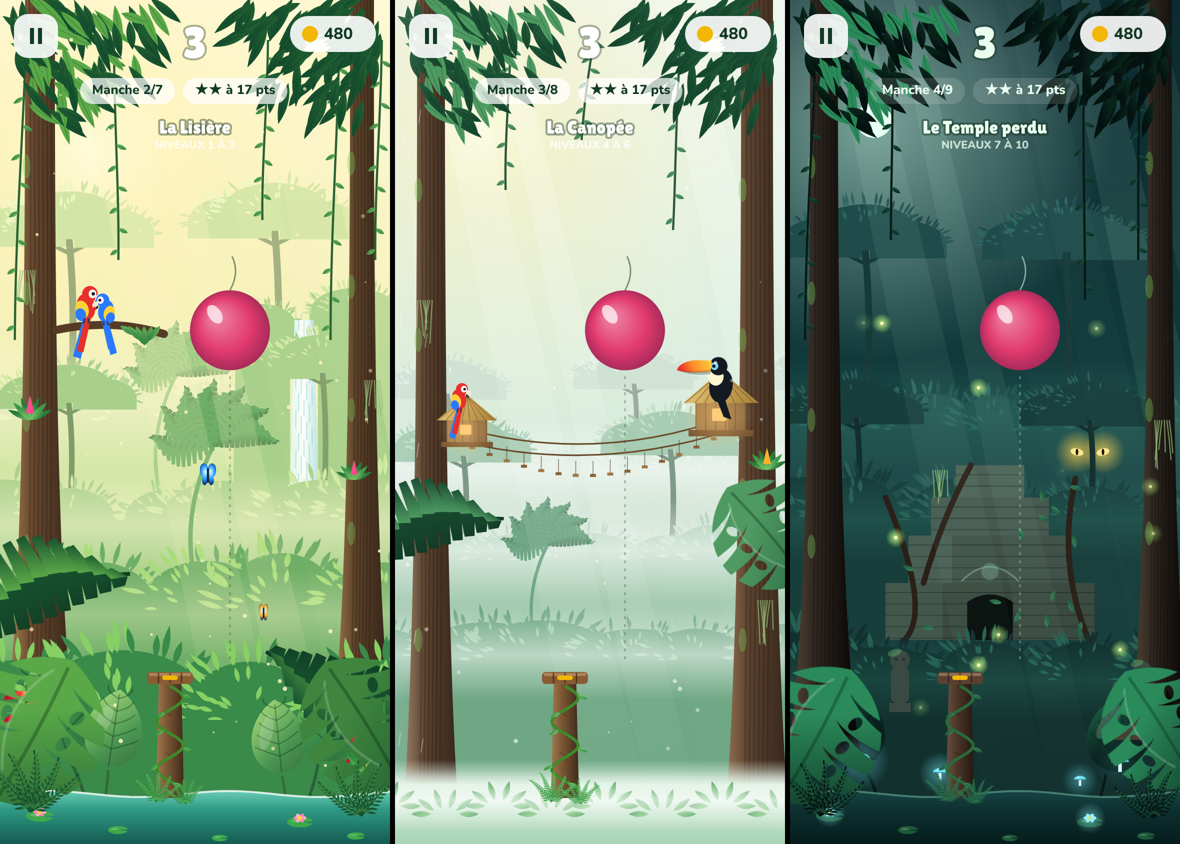
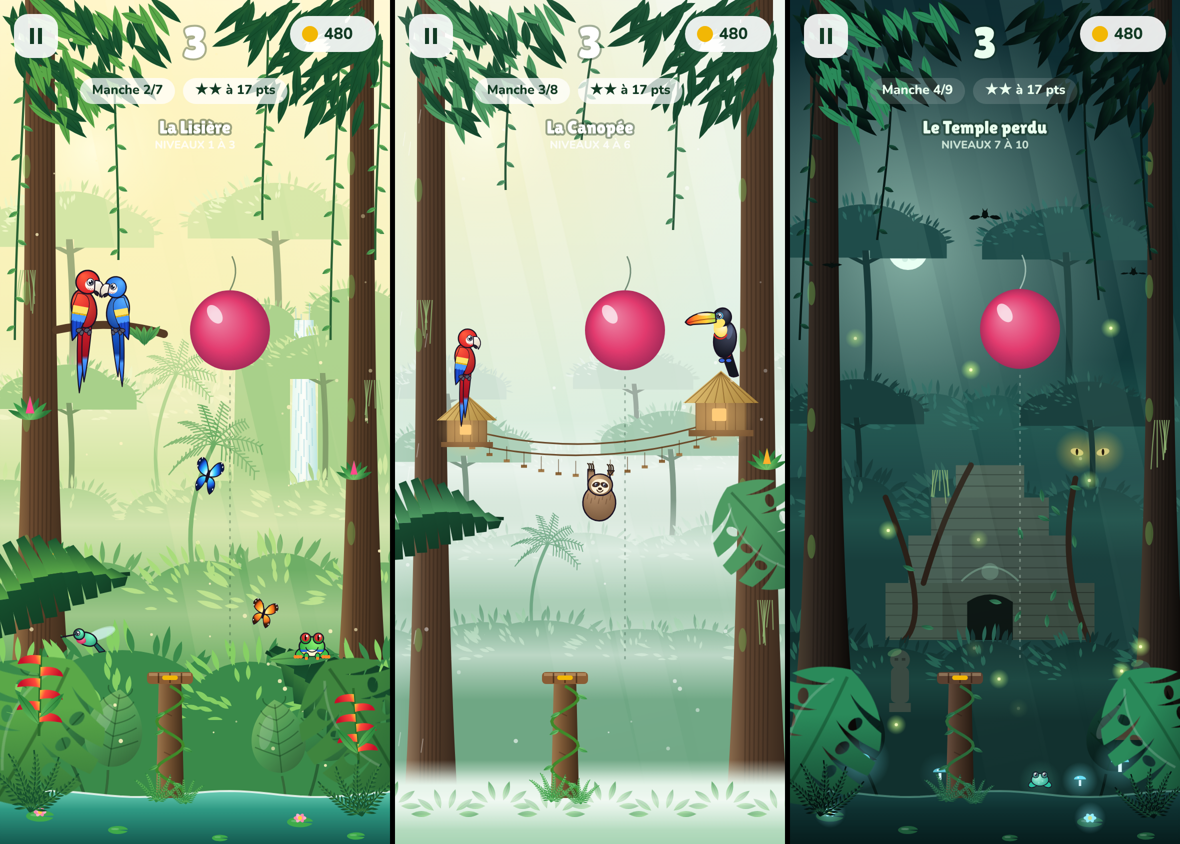
Monde 6 : animaux refaits (aras, toucan, colibri, rainette, paresseux, morphos, chauves-souris, grenouille luminescente) et palmiers
Claude-Session: https://claude.ai/code/session_01NEC92qwxswvqqiEaD4C6hh

diff --git a/design/brouillons/2026-11-19-jungle-maquettes.html b/design/brouillons/2026-11-19-jungle-maquettes.html
@@ -161,7 +161,12 @@ function emergent(x, base, hgt, cw, col, hi, tr, seed) { const top = base - hgt;
   bush(x - cw * .45, top + cw * .08, cw * .42, cw * .26, col, hi, seed); bush(x + cw * .45, top + cw * .1, cw * .4, cw * .24, col, hi, seed + 5); bush(x, top - cw * .02, cw * .55, cw * .3, col, hi, seed + 9); }
 /* silhouette de palmier (une seule couleur, pour les plans lointains) */
 function palmSil(x, base, hgt, s, col, t) { c.save(); c.strokeStyle = col; c.lineWidth = 4 * s; c.lineCap = 'round'; c.beginPath(); c.moveTo(x, base); c.quadraticCurveTo(x - hgt * .2, base - hgt * .5, x + hgt * .05, base - hgt); c.stroke();
-  c.translate(x + hgt * .05, base - hgt); for (let f = 0; f < 7; f++) banana(0, 0, .42 * s, -Math.PI * .95 + f * .5 + Math.sin(t * .01 + f) * .03, col, col); c.restore(); }
+  c.translate(x + hgt * .05, base - hgt); c.lineWidth = 1.2 * s;
+  for (let f = 0; f < 8; f++) { const a = -Math.PI + f * (Math.PI / 7) + Math.sin(t * .01 + f) * .04, L = 46 * s * (f === 0 || f === 7 ? .8 : 1), dr = 18 * s;
+    const P = u => { const d = L * u; return [Math.cos(a) * d, Math.sin(a) * d + dr * u * u * (Math.abs(Math.cos(a)) + .3)]; };
+    c.beginPath(); for (let i = 0; i <= 10; i++) { const [px, py] = P(i / 10); i ? c.lineTo(px, py) : c.moveTo(px, py); } c.stroke();
+    for (let i = 2; i <= 10; i++) { const u = i / 10, [px, py] = P(u), l = 10 * s * (1 - u * .5); for (const sd of [-1, 1]) { c.beginPath(); c.moveTo(px, py); c.lineTo(px + Math.cos(a + sd * 1.1 + .5) * l, py + Math.sin(a + sd * 1.1 + .5) * l + l * .5); c.stroke(); } } }
+  c.restore(); }
 /* plan de forêt : une rangée de masses feuillues, d'émergents et de palmiers, posée sur une bande pleine */
 function forestPlane(y, k, seed, t, opt = {}) { const col = ZN.P[k], hi = ZN.HI[k];
   const n = opt.n || 6; for (let i = 0; i < n; i++) { const x = (i + .5) / n * (W + 80) - 40 + (h1(seed + i) - .5) * 30;
@@ -176,11 +181,140 @@ function cornerLeaves(t, col, hi) { for (const [x0, sd] of [[-10, 1], [W + 10, -
 /* oreille d'éléphant (grande feuille en cœur, saturée) */
 function elephantEar(x, y, s, a, col, hi) { c.save(); c.translate(x, y); c.rotate(a); c.scale(s, s);
   c.strokeStyle = mix(col, '#000000', .3); c.lineWidth = 3; c.beginPath(); c.moveTo(0, 0); c.quadraticCurveTo(4, 30, -2, 70); c.stroke();
-  const g = c.createLinearGradient(-40, -80, 30, 0); g.addColorStop(0, hi); g.addColorStop(.6, col); g.addColorStop(1, mix(col, '#000000', .25)); c.fillStyle = g;
+  const g = c.createLinearGradient(-40, -80, 30, 0); g.addColorStop(0, mix(col, hi, .55)); g.addColorStop(.5, col); g.addColorStop(1, mix(col, '#000000', .35)); c.fillStyle = g;
   c.beginPath(); c.moveTo(0, -4); c.bezierCurveTo(-44, -8, -46, -70, 0, -96); c.bezierCurveTo(46, -70, 44, -8, 0, -4); c.fill();
   c.strokeStyle = 'rgba(0,30,10,0.3)'; c.lineWidth = 1.6; c.beginPath(); c.moveTo(0, -4); c.lineTo(0, -90); c.stroke();
   for (let k = 1; k < 6; k++) { const yy = -10 - k * 15; for (const sd of [-1, 1]) { c.beginPath(); c.moveTo(0, yy); c.quadraticCurveTo(sd * 16, yy - 6, sd * (34 - k * 4), yy - 14); c.stroke(); } }
   c.fillStyle = 'rgba(255,255,255,0.16)'; c.beginPath(); c.ellipse(-14, -56, 8, 22, .3, 0, TAU); c.fill(); c.restore(); }
+/* ===== animaux v2 : contour doux, grands yeux, formes rondes, lumière en haut à gauche ===== */
+const AOUT = '#1a1224';
+const aln = (w) => { c.strokeStyle = AOUT; c.lineWidth = w; c.lineJoin = 'round'; c.lineCap = 'round'; c.stroke(); };
+const rg = (x, y, r, a, b) => { const g = c.createRadialGradient(x - r * .45, y - r * .5, r * .1, x, y, r * 1.1); g.addColorStop(0, a); g.addColorStop(1, b); return g; };
+/* oeil mignon : grand, reflet ; k = ouverture (1 ouvert, 0 fermé) */
+function cuteEye(x, y, r, k, iris = '#141a2c', ring) { if (ring) { c.fillStyle = ring; c.beginPath(); c.ellipse(x, y, r * 1.45, r * 1.35, 0, 0, TAU); c.fill(); }
+  if (k < .2) { c.strokeStyle = AOUT; c.lineWidth = Math.max(1, r * .35); c.beginPath(); c.arc(x, y - r * .2, r * .8, .3, Math.PI - .3); c.stroke(); return; }
+  c.fillStyle = '#ffffff'; c.beginPath(); c.ellipse(x, y, r, r * 1.08 * k, 0, 0, TAU); c.fill(); c.strokeStyle = AOUT; c.lineWidth = Math.max(.8, r * .18); c.stroke();
+  c.fillStyle = iris; c.beginPath(); c.ellipse(x + r * .15, y + r * .08, r * .66, r * .74 * k, 0, 0, TAU); c.fill();
+  c.fillStyle = '#ffffff'; c.beginPath(); c.arc(x - r * .1, y - r * .28, r * .3, 0, TAU); c.fill(); c.beginPath(); c.arc(x + r * .4, y + r * .35, r * .13, 0, TAU); c.fill(); }
+const blinkK = (t, ph, per = 200) => { const q = (t + ph * 37) % per; return q < 4 ? 1 - q / 4 : q < 8 ? (q - 4) / 4 : 1; };
+
+/* ---- l'ara (perché sur une branche ; origine = pattes) ---- */
+function macaw2(x, y, s, t, o = {}) {
+  const col = o.col || 'red', R = col === 'red' ? ['#ff5a3c', '#d8202a', '#9a1020'] : ['#5ab0ff', '#1e6ae0', '#0e3a9a'], Y = ['#ffe46a', '#f2b705'], B = ['#4a9aff', '#1a4ad0'];
+  const k = blinkK(t, o.ph || 0), sq = ((t + (o.ph || 0) * 90) % 420) > 380 ? 1 : 0, tilt = Math.sin(t * .03 + (o.ph || 0)) * .12 + (sq ? -.15 : 0);
+  c.save(); c.translate(x, y); c.scale(s * (o.dir || 1), s);
+  /* queue : deux longues plumes qui pendent sous la branche */
+  for (const [dx, l, w] of [[-2, 78, 7], [4, 64, 6]]) { c.beginPath(); c.moveTo(dx - 5, -12); c.quadraticCurveTo(dx - 9, l * .5, dx - 4, l); c.quadraticCurveTo(dx + 2, l * .55, dx + w, -10); c.closePath();
+    const g = c.createLinearGradient(0, -10, 0, l); g.addColorStop(0, R[1]); g.addColorStop(.55, R[2]); g.addColorStop(.62, B[0]); g.addColorStop(1, B[1]); c.fillStyle = g; c.fill(); aln(1.4); }
+  /* corps */ c.beginPath(); c.ellipse(0, -30, 16, 25, -.18, 0, TAU); c.fillStyle = rg(0, -30, 25, R[0], R[2]); c.fill(); aln(1.8);
+  /* aile repliée sur le dos : rouge, bande jaune, rémiges bleues (le ventre reste visible) */ c.save(); c.translate(-4, -38); c.rotate(.18);
+  const wp = () => { c.beginPath(); c.moveTo(-6, -10); c.quadraticCurveTo(10, -14, 11, 4); c.quadraticCurveTo(10, 32, -2, 50); c.quadraticCurveTo(-9, 30, -9, 6); c.closePath(); };
+  wp(); c.fillStyle = B[1]; c.fill(); aln(1.6);
+  c.save(); wp(); c.clip();
+  c.fillStyle = rg(0, 0, 18, R[0], R[1]); c.fillRect(-12, -14, 30, 20); c.fillStyle = Y[0]; c.fillRect(-12, 5, 30, 9);
+  c.fillStyle = Y[1]; for (let i = 0; i < 4; i++) { c.beginPath(); c.arc(-8 + i * 6, 14, 3.2, 0, Math.PI); c.fill(); }
+  c.fillStyle = B[0]; c.fillRect(-12, 16, 30, 9); c.strokeStyle = 'rgba(10,30,90,0.5)'; c.lineWidth = 1; for (let i = 0; i < 4; i++) { c.beginPath(); c.moveTo(-6 + i * 5, 24); c.lineTo(-2 + i * 4, 50); c.stroke(); }
+  c.restore(); c.restore();
+  /* pattes grises qui serrent la branche */ c.fillStyle = '#5a5a6a'; for (const dx of [-6, 4]) { c.beginPath(); c.ellipse(dx, -2, 4, 3, 0, 0, TAU); c.fill(); aln(1); c.beginPath(); c.ellipse(dx + 3, 1, 2.4, 3.4, .4, 0, TAU); c.fill(); aln(.9); }
+  /* tête */ c.save(); c.translate(4, -58); c.rotate(tilt);
+  c.beginPath(); c.arc(0, -6, 15, 0, TAU); c.fillStyle = rg(0, -6, 15, R[0], R[1]); c.fill(); aln(1.8);
+  /* joue nue blanche, avec ses petites lignes de plumes */ c.fillStyle = '#fff8f0'; c.beginPath(); c.ellipse(5, -3, 8, 7, .15, 0, TAU); c.fill();
+  c.strokeStyle = 'rgba(160,40,40,0.55)'; c.lineWidth = .9; for (let i = 0; i < 3; i++) { c.beginPath(); c.moveTo(1 + i * 3, 1.5); c.lineTo(4 + i * 3, 3.5); c.stroke(); }
+  cuteEye(3.5, -6.5, 4.4, k, '#141a2c', null);
+  /* gros bec crochu devant la joue : haut ivoire, bas noir (s'ouvre quand il crie) */ const op = sq ? .6 : 0;
+  c.save(); c.translate(10, 4); c.rotate(op * .45); c.beginPath(); c.moveTo(0, -1); c.quadraticCurveTo(6, 1, 5, 6); c.quadraticCurveTo(1, 5, -1, 1); c.closePath(); c.fillStyle = '#26262e'; c.fill(); aln(1.2); c.restore();
+  c.beginPath(); c.moveTo(9, -9); c.bezierCurveTo(19, -12, 25, 0, 18, 11); c.quadraticCurveTo(16, 4, 10, 4); c.closePath(); const bg = c.createLinearGradient(9, -10, 22, 10); bg.addColorStop(0, '#fffaf0'); bg.addColorStop(.7, '#e6dcc8'); bg.addColorStop(1, '#3a3a40'); c.fillStyle = bg; c.fill(); aln(1.4);
+  c.fillStyle = 'rgba(255,255,255,0.75)'; c.beginPath(); c.ellipse(14, -7, 3, 1.3, -.2, 0, TAU); c.fill();
+  c.restore(); c.restore(); }
+
+/* ---- le toucan (origine = pattes) ---- */
+function toucan2(x, y, s, t, o = {}) { const k = blinkK(t, o.ph || 2), tilt = Math.sin(t * .025) * .1;
+  c.save(); c.translate(x, y); c.scale(s * (o.dir || 1), s);
+  /* queue */ c.beginPath(); c.moveTo(-8, -14); c.lineTo(-18, 18); c.quadraticCurveTo(-11, 22, -6, 18); c.lineTo(4, -10); c.closePath(); c.fillStyle = '#141820'; c.fill(); aln(1.4);
+  c.fillStyle = '#e8302a'; c.beginPath(); c.ellipse(-2, -10, 6, 4, 0, 0, TAU); c.fill();
+  /* corps noir lustré */ c.beginPath(); c.ellipse(0, -30, 15, 24, -.12, 0, TAU); c.fillStyle = rg(0, -30, 24, '#4a5068', '#0c0e16'); c.fill(); aln(1.8);
+  c.fillStyle = 'rgba(160,190,255,0.25)'; c.beginPath(); c.ellipse(-6, -40, 4, 10, -.2, 0, TAU); c.fill();
+  /* bavette jaune pâle */ c.beginPath(); c.ellipse(6, -44, 9, 11, .2, 0, TAU); c.fillStyle = rg(6, -44, 11, '#fffbe0', '#ffd84a'); c.fill();
+  c.strokeStyle = '#e8302a'; c.lineWidth = 2; c.beginPath(); c.arc(6, -40, 9, .4, Math.PI - .4); c.stroke();
+  c.fillStyle = '#3a6ae0'; for (const dx of [-5, 4]) { c.beginPath(); c.ellipse(dx, -2, 4, 2.6, 0, 0, TAU); c.fill(); aln(1); }
+  /* tête */ c.save(); c.translate(3, -56); c.rotate(tilt); c.beginPath(); c.arc(0, -4, 12, 0, TAU); c.fillStyle = rg(0, -4, 12, '#4a5068', '#0c0e16'); c.fill(); aln(1.6);
+  c.fillStyle = '#ffe46a'; c.beginPath(); c.ellipse(5, 4, 8, 6, .3, 0, TAU); c.fill();
+  cuteEye(4, -6, 3.6, k, '#141a2c', '#5ad0ff');
+  /* le grand bec : vert-jaune → orange → rouge, pointe noire, liseré clair */
+  c.beginPath(); c.moveTo(9, -10); c.bezierCurveTo(26, -16, 44, -10, 50, -2); c.quadraticCurveTo(46, 4, 40, 2); c.bezierCurveTo(30, 2, 18, 4, 9, 2); c.closePath();
+  const g = c.createLinearGradient(9, 0, 50, 0); g.addColorStop(0, '#a8e05a'); g.addColorStop(.3, '#ffd23a'); g.addColorStop(.7, '#ff8a2a'); g.addColorStop(.92, '#e8302a'); g.addColorStop(1, '#2a1a1a'); c.fillStyle = g; c.fill(); aln(1.6);
+  c.strokeStyle = 'rgba(120,20,10,0.55)'; c.lineWidth = 1.2; c.beginPath(); c.moveTo(10, -3); c.quadraticCurveTo(30, -4, 46, -1); c.stroke();
+  c.fillStyle = 'rgba(255,255,255,0.6)'; c.beginPath(); c.ellipse(24, -10, 9, 1.8, -.12, 0, TAU); c.fill();
+  c.restore(); c.restore(); }
+
+/* ---- colibri qui butine (en vol stationnaire) ---- */
+function hummingbird(x, y, s, t, o = {}) { const hov = Math.sin(t * .2) * 1.5, wing = Math.sin(t * 2.2);
+  c.save(); c.translate(x, y + hov); c.scale(s * (o.dir || 1), s);
+  /* ailes floues */ for (const k of [-1, 1]) { c.save(); c.rotate(-1.2 + wing * .5 * k); c.fillStyle = 'rgba(220,250,255,0.45)'; c.beginPath(); c.ellipse(0, -14, 5, 16, 0, 0, TAU); c.fill(); c.restore(); }
+  /* queue */ c.beginPath(); c.moveTo(-8, 2); c.lineTo(-18, 12); c.lineTo(-12, 13); c.lineTo(-6, 5); c.closePath(); c.fillStyle = '#1a6a5a'; c.fill(); aln(1);
+  /* corps vert irisé, gorge rubis */ c.beginPath(); c.ellipse(0, 0, 10, 6.5, -.35, 0, TAU); c.fillStyle = rg(0, 0, 10, '#7affc8', '#1a8a6a'); c.fill(); aln(1.3);
+  c.beginPath(); c.ellipse(6, 1, 5, 3.6, -.2, 0, TAU); c.fillStyle = rg(6, 1, 5, '#ff8aa8', '#c8104a'); c.fill();
+  c.beginPath(); c.arc(8, -5, 5.4, 0, TAU); c.fillStyle = rg(8, -5, 5.4, '#7affc8', '#1a8a6a'); c.fill(); aln(1.2);
+  cuteEye(9.5, -6, 2.2, blinkK(t, 5), '#141a2c');
+  c.strokeStyle = '#1a1224'; c.lineWidth = 1.4; c.beginPath(); c.moveTo(12.5, -4.5); c.lineTo(26, -2); c.stroke();
+  c.restore(); }
+
+/* ---- la rainette aux yeux rouges (sur une feuille) ---- */
+function treeFrog(x, y, s, t, o = {}) { const k = blinkK(t, 3, 260), puff = 1 + Math.max(0, Math.sin(t * .09)) * .25;
+  c.save(); c.translate(x, y); c.scale(s * (o.dir || 1), s);
+  /* pattes arrière repliées, orteils orange */ for (const dx of [-12, 12]) { c.beginPath(); c.ellipse(dx, -4, 9, 6, dx < 0 ? -.4 : .4, 0, TAU); c.fillStyle = '#3ac04a'; c.fill(); aln(1.3); c.fillStyle = '#ff8a2a'; for (let i = 0; i < 3; i++) { c.beginPath(); c.arc(dx * 1.45 + (i - 1) * 3.4, 1, 2.2, 0, TAU); c.fill(); } }
+  /* corps */ c.beginPath(); c.ellipse(0, -12, 16, 12, 0, 0, TAU); c.fillStyle = rg(0, -12, 16, '#9aff7a', '#22a03a'); c.fill(); aln(1.6);
+  /* flanc bleu et jaune */ c.save(); c.beginPath(); c.ellipse(0, -12, 16, 12, 0, 0, TAU); c.clip(); c.fillStyle = '#2a6ae0'; c.fillRect(-16, -8, 32, 4); c.fillStyle = '#ffe46a'; c.fillRect(-16, -5, 32, 3); c.restore();
+  /* gorge qui se gonfle */ c.fillStyle = '#fff6d0'; c.beginPath(); c.ellipse(0, -4, 7 * puff, 4 * puff, 0, 0, TAU); c.fill();
+  /* pattes avant */ for (const dx of [-7, 7]) { c.beginPath(); c.ellipse(dx, 0, 3, 4, 0, 0, TAU); c.fillStyle = '#3ac04a'; c.fill(); aln(1); c.fillStyle = '#ff8a2a'; c.beginPath(); c.arc(dx, 3, 2, 0, TAU); c.fill(); }
+  /* les grands yeux rouges, pupille verticale */ for (const dx of [-8, 8]) { c.beginPath(); c.arc(dx, -22, 6.5, 0, TAU); c.fillStyle = '#22a03a'; c.fill(); aln(1.3);
+    if (k < .2) { c.strokeStyle = AOUT; c.lineWidth = 1.6; c.beginPath(); c.arc(dx, -23, 4, .3, Math.PI - .3); c.stroke(); continue; }
+    c.beginPath(); c.ellipse(dx, -23, 5, 5 * k, 0, 0, TAU); c.fillStyle = rg(dx, -23, 5, '#ff7a6a', '#c8101a'); c.fill();
+    c.fillStyle = '#140a0a'; c.beginPath(); c.ellipse(dx, -23, 1.2, 3.6 * k, 0, 0, TAU); c.fill(); c.fillStyle = '#fff'; c.beginPath(); c.arc(dx - 1.6, -25, 1.3, 0, TAU); c.fill(); }
+  /* sourire */ c.strokeStyle = AOUT; c.lineWidth = 1.1; c.beginPath(); c.arc(0, -13, 8, .3, Math.PI - .3); c.stroke();
+  c.restore(); }
+
+/* ---- le paresseux (suspendu sous une branche ; origine = mains sur la branche) ---- */
+function sloth(x, y, s, t, o = {}) { const sw = Math.sin(t * .012) * .08, k = blinkK(t, 7, 320) * .55;
+  c.save(); c.translate(x, y); c.scale(s, s); c.rotate(sw);
+  const fur = rg(0, 30, 30, '#c8a07a', '#7a5a3e');
+  /* bras levés qui tiennent la branche, griffes */ for (const dx of [-12, 12]) { c.beginPath(); c.moveTo(dx - 4, 0); c.quadraticCurveTo(dx * 1.3, 14, dx * 1.2, 26); c.lineTo(dx * .4, 26); c.quadraticCurveTo(dx * .6, 10, dx + 4, 0); c.closePath(); c.fillStyle = fur; c.fill(); aln(1.3);
+    c.strokeStyle = '#3a2a1e'; c.lineWidth = 1.6; for (let i = -1; i <= 1; i++) { c.beginPath(); c.moveTo(dx + i * 2.6, 2); c.quadraticCurveTo(dx + i * 2.6 + 1, -6, dx + i * 2.6 - 2, -7); c.stroke(); } }
+  /* corps rond et poilu */ c.beginPath(); c.ellipse(0, 40, 20, 22, 0, 0, TAU); c.fillStyle = fur; c.fill(); aln(1.6);
+  c.strokeStyle = 'rgba(80,50,30,0.4)'; c.lineWidth = 1; for (let i = 0; i < 7; i++) { c.beginPath(); c.moveTo(-14 + i * 4.6, 30 + (i % 2) * 5); c.lineTo(-15 + i * 4.6, 36 + (i % 2) * 5); c.stroke(); }
+  /* tête : masque crème, bandes sombres autour des yeux, sourire */ c.beginPath(); c.ellipse(0, 18, 15, 13, 0, 0, TAU); c.fillStyle = rg(0, 18, 15, '#d8b48a', '#8a6a4a'); c.fill(); aln(1.5);
+  c.fillStyle = '#fff2d8'; c.beginPath(); c.ellipse(0, 20, 11, 9, 0, 0, TAU); c.fill();
+  for (const dx of [-5, 5]) { c.fillStyle = '#4a3020'; c.beginPath(); c.ellipse(dx, 18, 5, 3, dx < 0 ? -.35 : .35, 0, TAU); c.fill(); cuteEye(dx, 18, 2.1, k + .45, '#141a2c'); }
+  c.fillStyle = '#3a2418'; c.beginPath(); c.ellipse(0, 23, 2.4, 1.6, 0, 0, TAU); c.fill(); c.strokeStyle = '#3a2418'; c.lineWidth = 1.2; c.beginPath(); c.arc(0, 23, 4, .4, Math.PI - .4); c.stroke();
+  c.restore(); }
+
+/* ---- morpho bleu (vu de dessus, ailes qui battent) ---- */
+function morpho(x, y, s, t, o = {}) { const f = .3 + .7 * Math.abs(Math.sin(t * .32 + (o.ph || 0))), blue = o.col !== 'orange';
+  c.save(); c.translate(x, y); c.rotate(o.rot || 0); c.scale(s, s);
+  for (const sd of [-1, 1]) { c.save(); c.scale(sd * f, 1);
+    const g = c.createRadialGradient(4, -2, 1, 6, -2, 14); if (blue) { g.addColorStop(0, '#d8fbff'); g.addColorStop(.35, '#3ad0ff'); g.addColorStop(.75, '#1a5ae0'); g.addColorStop(1, '#0a1a4a'); } else { g.addColorStop(0, '#fff2a0'); g.addColorStop(.4, '#ffb02a'); g.addColorStop(.8, '#e8601e'); g.addColorStop(1, '#3a1a0a'); }
+    c.beginPath(); c.moveTo(1, -1); c.bezierCurveTo(4, -14, 20, -19, 23, -9); c.quadraticCurveTo(20, 0, 1, 1); c.closePath(); c.fillStyle = g; c.fill(); aln(1.1);
+    c.beginPath(); c.moveTo(1, 1); c.bezierCurveTo(15, 0, 21, 10, 11, 16); c.quadraticCurveTo(4, 13, 1, 3); c.closePath(); c.fill(); aln(1.1);
+    c.fillStyle = '#ffffff'; for (const [px, py] of [[20, -11], [17, -14], [21, -6], [14, 11]]) { c.beginPath(); c.arc(px, py, .9, 0, TAU); c.fill(); }
+    c.restore(); }
+  c.beginPath(); c.ellipse(0, 1, 1.6, 6, 0, 0, TAU); c.fillStyle = '#1a1224'; c.fill();
+  c.strokeStyle = '#1a1224'; c.lineWidth = .8; c.beginPath(); c.moveTo(-.5, -4); c.quadraticCurveTo(-3, -9, -4, -11); c.moveTo(.5, -4); c.quadraticCurveTo(3, -9, 4, -11); c.stroke();
+  c.restore(); }
+
+/* ---- chauve-souris (silhouette devant la lune) ---- */
+function bat(x, y, s, t, ph) { const f = Math.sin(t * .4 + ph); c.save(); c.translate(x, y); c.scale(s, s); c.fillStyle = '#06100e';
+  c.beginPath(); c.moveTo(0, -2); c.quadraticCurveTo(-8, -10 * f - 2, -16, -4 * f); c.quadraticCurveTo(-12, 0, -10, 1); c.quadraticCurveTo(-6, 0, -4, 3); c.quadraticCurveTo(0, 1, 4, 3); c.quadraticCurveTo(6, 0, 10, 1); c.quadraticCurveTo(12, 0, 16, -4 * f); c.quadraticCurveTo(8, -10 * f - 2, 0, -2); c.fill();
+  c.beginPath(); c.ellipse(0, 0, 3, 4, 0, 0, TAU); c.fill(); c.beginPath(); c.moveTo(-2, -3); c.lineTo(-2.6, -6.5); c.lineTo(-.6, -3.4); c.moveTo(2, -3); c.lineTo(2.6, -6.5); c.lineTo(.6, -3.4); c.fill(); c.restore(); }
+
+/* ---- grenouille luminescente (nuit) ---- */
+function glowFrog(x, y, s, t) { const a = .6 + .4 * Math.sin(t * .05); const g = c.createRadialGradient(x, y - 8 * s, 2, x, y - 8 * s, 34 * s); g.addColorStop(0, `rgba(120,255,220,${(.45 * a).toFixed(3)})`); g.addColorStop(1, 'rgba(120,255,220,0)'); c.fillStyle = g; c.beginPath(); c.arc(x, y - 8 * s, 34 * s, 0, TAU); c.fill();
+  c.save(); c.translate(x, y); c.scale(s, s); const k = blinkK(t, 9, 240);
+  for (const dx of [-11, 11]) { c.beginPath(); c.ellipse(dx, -3, 8, 5, dx < 0 ? -.4 : .4, 0, TAU); c.fillStyle = '#2ac0a0'; c.fill(); aln(1.2); }
+  c.beginPath(); c.ellipse(0, -10, 14, 10, 0, 0, TAU); c.fillStyle = rg(0, -10, 14, '#bfffe8', '#1aa088'); c.fill(); aln(1.4);
+  c.fillStyle = `rgba(200,255,255,${(.8 * a).toFixed(3)})`; for (const [px, py] of [[-6, -12], [4, -8], [8, -14], [-2, -5]]) { c.beginPath(); c.arc(px, py, 1.6, 0, TAU); c.fill(); }
+  for (const dx of [-7, 7]) { c.beginPath(); c.arc(dx, -18, 5, 0, TAU); c.fillStyle = '#2ac0a0'; c.fill(); aln(1.2); cuteEye(dx, -18.5, 3.2, k, '#141a2c'); }
+  c.restore(); }
+
 /* ===== sol : rivière (zones 1 et 3) ou mer de nuages et de feuilles (zone 2) ===== */
 function river(t) { const [a, b, d] = ZN.water; c.fillStyle = lg(FL - 14, H, [[0, a], [.4, b], [1, d]]); c.beginPath(); c.moveTo(0, H); for (let x = 0; x <= W; x += 10) c.lineTo(x, FL - 6 + Math.sin(x * .035 + t * .05) * 3); c.lineTo(W, H); c.fill();
   c.strokeStyle = ZN.night ? 'rgba(160,255,220,0.35)' : 'rgba(255,255,255,0.8)'; c.lineWidth = 2; c.beginPath(); for (let x = 0; x <= W; x += 10) { const y = FL - 6 + Math.sin(x * .035 + t * .05) * 3; x ? c.lineTo(x, y) : c.moveTo(x, y); } c.stroke();
@@ -252,18 +386,20 @@ function zone1(t) {
   /* branche des aras, qui sort du tronc de gauche */
   c.strokeStyle = mix(ZN.trunk, '#000000', .2); c.lineWidth = 8; c.lineCap = 'round'; c.beginPath(); c.moveTo(56, 330); c.quadraticCurveTo(112, 318, 164, 334); c.stroke(); c.lineCap = 'butt';
   for (let i = 0; i < 6; i++) leaf(120 + i * 8, 326, 20, 6, .5 + i * .35, ZN.P[3], ZN.HI[3]);
-  macaw(86, 306, 1.3, t); macaw(106, 312, 1.1, t + 40, '#2a7aff', -1);
+  macaw2(84, 332, .78, t); macaw2(118, 332, .7, t + 40, { col: 'blue', dir: -1, ph: 2 });
   /* lianes qui tombent de la canopée (plan 3) */
   for (const [x, l] of [[22, 300], [120, 220], [262, 180], [334, 300], [376, 220]]) vine(x, 40, l, 10, t, ZN.P[3], ZN.HI[3], 10);
   cornerLeaves(t, ZN.P[4], ZN.HI[4]);
-  butterfly(180 + Math.sin(t * .02) * 30, 480 + Math.cos(t * .03) * 20, 1.2, t); butterfly(250 + Math.cos(t * .017) * 26, 600 + Math.sin(t * .02) * 14, .9, t + 30, '#ffb02a');
+  morpho(180 + Math.sin(t * .02) * 30, 480 + Math.cos(t * .03) * 20, 1.1, t, { rot: Math.sin(t * .02) * .3 }); morpho(250 + Math.cos(t * .017) * 26, 600 + Math.sin(t * .02) * 14, .85, t + 30, { col: 'orange', rot: .3 });
   motes(t, 70, ZN.light, .9);
   river(t);
   /* premier plan sombre, liseré de lumière */
   banana(-40, 640, 1.3, -.3, ZN.P[4], ZN.HI[4]); banana(430, 690, 1.2, Math.PI + .3, ZN.P[4], mix(ZN.P[4], ZN.HI[4], .5));
-  heliconia(26, 726, 1.15, Math.sin(t * .01) * .04); heliconia(364, 744, 1, -.1 + Math.sin(t * .012) * .04);
   monstera(-4, 800, 1.45, .5, ZN.P[4], ZN.HI[4]); monstera(400, 784, 1.3, -.55, ZN.P[4], mix(ZN.P[4], ZN.HI[4], .6));
+  heliconia(40, 690, 1.15, Math.sin(t * .01) * .04); heliconia(356, 724, 1, -.1 + Math.sin(t * .012) * .04);
+  hummingbird(84 + Math.sin(t * .015) * 4, 640, 1, t, { dir: -1 });
   fern(30, 812, 1, ZN.P[4], ZN.HI[4]); fern(362, 816, .9, ZN.P[4], ZN.HI[4], -1);
+  /* la rainette sur sa feuille, au bord droit */ leaf(268, 660, 72, 16, -.08, ZN.P[3], ZN.HI[3]); treeFrog(312, 656, .8, t, { dir: -1 });
 }
 /* ===== zone 2 : la Canopée — on est dans les cimes : mer d'arbres et de brume en dessous ===== */
 function zone2(t) {
@@ -275,7 +411,7 @@ function zone2(t) {
   trunk(36, 28, 0, 900, ZN.trunk, ZN.trunkL, mix(ZN.trunk, '#000000', .45)); trunk(362, 32, 0, 900, ZN.trunk, ZN.trunkL, mix(ZN.trunk, '#000000', .45));
   bromeliad(28, 520, 1.1); bromeliad(372, 470, 1, '#ffb02a'); moss(370, 600, 46, t); moss(30, 300, 44, t);
   bridge(60, 440, 336, 430, 40); hut(326, 430, .9, t); hut(72, 442, .72, t);
-  toucan(326, 385, 1.3, t, -1); macaw(64, 400, 1, t, '#e8302a');
+  toucan2(330, 362, .75, t, { dir: -1 }); macaw2(70, 378, .62, t, { ph: 1 }); sloth(206, 470, .82, t);
   for (const [x, l] of [[110, 160], [200, 110], [290, 200]]) vine(x, 30, l, 12, t, ZN.P[3], ZN.HI[3], 8);
   cornerLeaves(t, ZN.P[4], ZN.HI[4]);
   rainCurtain(t, .35);
@@ -290,7 +426,7 @@ function snakeEyes(x, y, s, t) { const blink = (t % 260) < 8 ? .15 : 1, a = .75 
     if (blink > .5) { c.fillStyle = '#1a0e04'; c.beginPath(); c.ellipse(ex, y, 1.3 * s, 3.2 * s, 0, 0, TAU); c.fill(); } } }
 function zone3(t) {
   c.fillStyle = lg(0, H, ZN.sky); c.fillRect(0, 0, W, H);
-  { const g = c.createRadialGradient(84, 120, 4, 84, 120, 240); g.addColorStop(0, 'rgba(210,255,235,0.55)'); g.addColorStop(1, 'rgba(210,255,235,0)'); c.fillStyle = g; c.fillRect(0, 0, W, H); c.fillStyle = '#eafff4'; c.beginPath(); c.arc(84, 120, 18, 0, TAU); c.fill(); }
+  { const g = c.createRadialGradient(118, 250, 4, 118, 250, 240); g.addColorStop(0, 'rgba(210,255,235,0.55)'); g.addColorStop(1, 'rgba(210,255,235,0)'); c.fillStyle = g; c.fillRect(0, 0, W, H); c.fillStyle = '#eafff4'; c.beginPath(); c.arc(118, 250, 20, 0, TAU); c.fill(); c.fillStyle = 'rgba(160,200,190,0.35)'; for (const [dx, dy, r] of [[-6, -4, 4.5], [5, 5, 5.5], [-3, 9, 3]]) { c.beginPath(); c.arc(118 + dx, 250 + dy, r, 0, TAU); c.fill(); } }
   forestPlane(430, 0, 5, t, { n: 7, emer: 140, cw: 96, bw: 46, bh: 30 }); haze(360, 470, .45);
   snakeEyes(300, 452, 1, t);
   forestPlane(520, 1, 13, t, { n: 6, emer: 110, cw: 80, bw: 52, bh: 34 }); haze(480, 560, .4);
@@ -303,7 +439,9 @@ function zone3(t) {
   statue(110, 712, .9); statue(352, 716, .8);
   for (const [x, l] of [[22, 300], [96, 200], [300, 260], [356, 220]]) vine(x, 40, l, 8, t, ZN.P[3], ZN.HI[3]);
   cornerLeaves(t, ZN.P[4], ZN.HI[4]);
+  for (let i = 0; i < 3; i++) { const q = ((t * .0025 + i * .33) % 1); bat(-30 + q * (W + 60), 236 + Math.sin(q * 9 + i) * 22 + i * 18, 1 - i * .18, t, i); }
   for (const [x, y, s] of [[70, 770, 1], [150, 780, .7], [330, 772, .9], [290, 786, .6]]) mushroom(x, y, s, t);
+  glowFrog(250, 786, .62, t);
   fireflies(t, 26, [0, 300, W, 460]);
   river(t);
   monstera(-10, 800, 1.35, .5, ZN.P[4], ZN.HI[4]); monstera(404, 784, 1.2, -.55, ZN.P[4], ZN.HI[4]); fern(30, 816, .9, ZN.P[4], ZN.HI[4]); fern(364, 818, .8, ZN.P[4], ZN.HI[4], -1);
@@ -321,7 +459,13 @@ function hud() { c.fillStyle = 'rgba(255,255,255,0.9)'; c.beginPath(); c.roundRe
   c.fillStyle = 'rgba(255,255,255,0.9)'; c.beginPath(); c.roundRect(W - 100, 16, 86, 36, 18); c.fill(); c.fillStyle = '#f2b705'; c.beginPath(); c.arc(W - 80, 34, 8, 0, TAU); c.fill(); c.font = '800 16px Nunito'; c.fillStyle = '#123a24'; c.textBaseline = 'middle'; c.fillText('480', W - 66, 35);
   let x = 80; x += chip(x, 78, Z === 1 ? 'Manche 2/7' : Z === 2 ? 'Manche 3/8' : 'Manche 4/9') + 8; chip(x, 78, '★★ à 17 pts');
   c.font = '18px "Lilita One"'; c.fillStyle = ZN.night ? '#eaffef' : '#ffffff'; c.textAlign = 'center'; c.strokeStyle = 'rgba(10,40,20,0.4)'; c.lineWidth = 4; c.strokeText(ZN.name, W / 2, 128); c.fillText(ZN.name, W / 2, 128); c.font = '800 11px Nunito'; c.globalAlpha = .8; c.fillText(ZN.levels.toUpperCase(), W / 2, 146); c.globalAlpha = 1; c.textAlign = 'left'; }
-function frame(t) { c.setTransform(DPR, 0, 0, DPR, 0, 0); [zone1, zone2, zone3][Z - 1](t); post(170, 672); balloon(230, 330, 40, '#e23a6e', t); hud(); }
+const AN = +(Q.get('a') || 0);
+function planche(t) { c.fillStyle = '#e8f0dc'; c.fillRect(0, 0, W, H); c.fillStyle = '#c8dcb4'; c.fillRect(0, 420, W, H);
+  c.strokeStyle = '#6a4a30'; c.lineWidth = 9; c.lineCap = 'round'; c.beginPath(); c.moveTo(10, 240); c.lineTo(380, 240); c.stroke(); c.beginPath(); c.moveTo(220, 470); c.lineTo(380, 470); c.stroke();
+  macaw2(70, 240, 2.1, t); macaw2(150, 240, 1.8, t + 50, { col: 'blue', dir: -1, ph: 2 }); toucan2(270, 240, 2, t, { dir: -1 });
+  sloth(300, 470, 2.2, t); treeFrog(90, 560, 2.6, t); hummingbird(190, 380, 2.4, t); morpho(80, 700, 3, t); morpho(170, 720, 2.4, t + 9, { col: 'orange', rot: .4 });
+  c.fillStyle = '#163c38'; c.fillRect(220, 640, 170, 204); bat(270, 690, 2, t, 0); glowFrog(320, 800, 2.2, t); }
+function frame(t) { c.setTransform(DPR, 0, 0, DPR, 0, 0); if (AN) { planche(t); return; } [zone1, zone2, zone3][Z - 1](t); post(170, 672); balloon(230, 330, 40, '#e23a6e', t); hud(); }
 Promise.all([document.fonts.load('44px "Lilita One"'), document.fonts.load('800 13px Nunito')]).then(() => {
   if (FIX != null) { frame(+FIX); window.__READY = 1; return; }
   let t = 0; (function loop() { frame(t++); requestAnimationFrame(loop); })();
